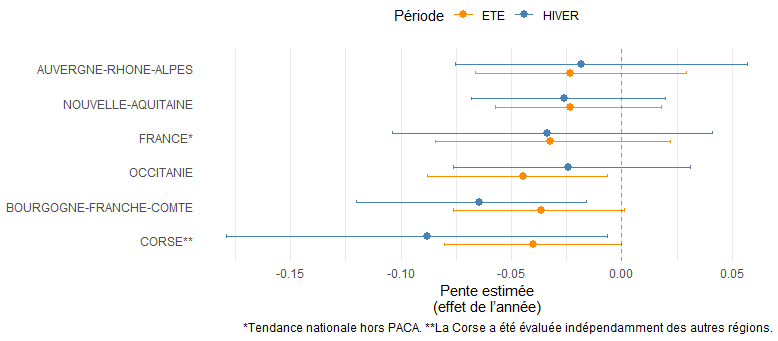
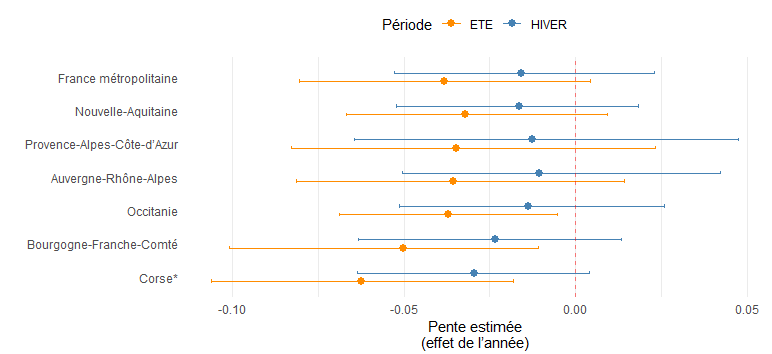
Update minsch_trends project

diff --git a/pages/minsch_trends.html b/pages/minsch_trends.html
@@ -55,10 +55,10 @@
 						<h4>Liens</h4>
 						<p class="repo-icons">
 							<a href="">
-								<i class="fa-solid fa-book"></i> Rapport de l'étude (bientôt publié)
+								<i class="fa-solid fa-book"></i> <a href="https://www.observatoire-mammiferes.fr/static/docs/2025-1.3-SFEPM-Tendances_populationnelles_MINSCH.pdf">Rapport de l'étude</a>
 							</a><br>
 							<a href="">
-								<i class="fa-solid fa-file-lines"></i> Article scientifique issue de l'étude (bientôt publié)
+								<i class="fa-solid fa-book"></i> <a href="https://www.observatoire-mammiferes.fr/static/docs/2025-12_Note_technique-Miniopt%C3%A8re_de_Schreibers.pdf">Addenum : Note technique</a>
 							</a>
 						</p>
 					</div>
@@ -76,7 +76,7 @@
 					</a>
 					<h1 class="page-title">Analyse hiérarchique des tendances populationnelles d'une espèce de chauve-souris en France (1995-2024)</h1>
 				</header>
-				<p>Le Minioptère de Screibers (<i>Miniopterus schreibersii</i>), chauve-souris cavernicole protégée et classée « Vulnérable » sur la liste rouge nationale de l’UICN, est suivi depuis près de 30 ans par un réseau coordonné par la Société Française d’Étude et de Protection des Mammifères (SFEPM). L’espèce est recensée en période estivale dans les colonies de reproduction et en hiver dans les gîtes d’hibernation, sur plus de 400 sites répartis dans cinq grandes régions de France. L’étude vise à :</p>
+				<p>Le Minioptère de Schreibers (<i>Miniopterus schreibersii</i>), chauve-souris cavernicole protégée et classée « Vulnérable » sur la liste rouge nationale de l’UICN, est suivi depuis près de 30 ans par un réseau coordonné par la Société Française pour l’Étude et la Protection des Mammifères (SFEPM). L’espèce est recensée en période estivale dans les colonies de reproduction et en hiver dans les gîtes d’hibernation, sur plus de 400 sites répartis dans cinq grandes régions de France. L’étude vise à :</p>
                     <ul>
                         <li>Quantifier la tendance temporelle des effectifs adultes entre 1995 et 2024 ;</li>
                         <li>Identifier les différences régionales et saisonnières ;</li>
@@ -84,20 +84,167 @@
                     </ul>
 				
                 <h3>Méthodologie itérative</h3>
+				<p>Le jeu de données final repose sur 62 sites estivaux et 60 sites hivernaux sélectionnés selon des critères de régularité et d'abondance (minimum 5 années de suivi dont 3 consécutives).</p>
+				<p><b>L'analyse intègre désormais les données complémentaires de la région Provence-Alpes-Côte d'Azur (cf. Note technique) qui n'avaient pas pu être utilisées lors de l'étude (cf. Rapport de l'étude)</b>.</p>
                 <p>Un pipeline de nettoyage et filtrage a permis d’harmoniser les données issues de multiples structures locales : standardisation des formats, catégorisation des variables, élimination des doublons, gestion des valeurs manquantes et application de seuils minimaux d’effectif, de fréquence de suivi et de fiabilité. Une analyse de sensibilité a permis de mettre en évidence les meilleurs paramètres de filtrage, inspiré par d'autres travaux. L’analyse repose sur trois approches complémentaires :</p>
                 <p>Usage d'un <b>modèle TRIM</b> (régression log-linéaire de Poisson) pour réaliser une première estimation de référence grâce à sa gestion des données manquantes par imputation et sa correction de la surdispersion.</p>
                 <p>Construction de modèles <b>linéaires généralisés mixtes</b> (GLMM) pour prendre en compte la structure hiérarchique des données (sites, régions, années, etc.) et exploiter des contrastes régionaux via des interactions.</p>
-                <p>Enfin, réaliser des estimations probabilistes à l'aide de <b>modèles bayésiens hiérarchiques</b> (négative binomiale) pour obtenir des pentes spécifiques par site et par région. Cette démarche permet alors d'intégrer explicitement les incertitiudes et les effets croisés.</p>
+                <p>Enfin, réaliser des estimations probabilistes à l'aide de <b>modèles bayésiens hiérarchiques</b> (négative binomiale) pour obtenir des pentes spécifiques par site et par région. Cette démarche permet alors d'intégrer explicitement les incertitudes et les effets croisés.</p>
 			    <p>Les métriques clés calculées incluent la pente annuelle (β), la variation cumulée sur la période, la probabilité postérieure de déclin (P(β<0)), les intervalles de crédibilité (IC95 %) et la proportion de variance expliquée (R²).</p>
 
                 <h3>Résultats</h3>
-                <p>En été, la tendance nationale indique une probabilité de déclin élevée (P ≈ 92,6 %) avec des signaux robustes en Occitanie (–73,8 %, P = 98,9 %), Bourgogne-Franche-Comté (–66,3 %, P = 97,2 %) et Corse (–69,8 %, P = 97,6 %). En hiver, les résultats affichent des déclins locaux marqués : Bourgogne-Franche-Comté (–85,6 %, P = 99,6 %) et Corse (–92,8 %, P = 98 %).</p>
-                <p>Les analyses révèlent une forte hétérogénéité spatiale et saisonnière, confirmant que les colonies estivales, composées majoritairement de femelles reproductrices, sont particulièrement vulnérables. La variabilité interannuelle et les contrastes régionaux mettent en évidence l’intérêt des approches hiérarchiques pour distinguer signaux écologiques réels et fluctuations liées aux comptages annuels.</p>
-                <p>Afin de faciliter la communication des résultats auprès du grand public, des graphiques sont présentés sous forme de courbes tendancielles traçant l'abondance relative annuelle observée. Un ensemble de graphiques en haute définition ont été fournis pour chaque période et région.</p>
-                <center>
-					<img src="../pages/images/winter_trends_minsch.png" alt="witer trends" width="100%">
-                    <p class="caption">Représentation de la tendance nationale (hors PACA) du Minioptère de Schreibers sur la période hivernale de 1995-2024. Les points représentent les effectifs moyens annuels, normalisés sur l’ensemble de la période. Les courbes violettes correspondent aux différentes trajectoires linéaires simulées par le modèle bayésien hiérarchique ; elles reflètent l’incertitude autour de la direction générale de la tendance. La courbe bleue est un GLM simple fournissant une lecture descriptive indépendante du modèle, mettant en évidence les variations temporelles brutes.</p>
+				<p>Les résultats mettent en évidence une tendance nationale nette au déclin, plus marquée en période estivale qu’hivernale.</p>
+                <p>En <b>été</b>, la tendance nationale indique une probabilité de déclin quasi certaine (<span style="white-space: nowrap;">P(β < 0) = 0,966</span>) avec une baisse estimée à <span style="white-space: nowrap;">–68,2 %</span>, portée par des signaux robustes en Bourgogne-Franche-Comté (<span style="white-space: nowrap;">–77,9 %</span>, <span style="white-space: nowrap;">P = 0,993</span>), en Occitanie (<span style="white-space: nowrap;">–67,1 %</span>, <span style="white-space: nowrap;">P = 0,987</span>) et en Corse  (<span style="white-space: nowrap;">–84,6 %</span>, <span style="white-space: nowrap;">P = 0,995</span>).</p>
+
+				<style>
+				.bat-container { font-family: sans-serif; margin-bottom: 30px; }
+				.bat-table {
+					width: 100%;
+					border-collapse: collapse;
+					font-size: 0.9em;
+					margin-top: 10px;
+				}
+				.bat-table th, .bat-table td {
+					border: 1px solid #ddd;
+					padding: 10px;
+					text-align: center;
+				}
+				.bat-table th { background-color: #f8f9fa; color: #333; }
+				.bat-table .region { text-align: left; font-weight: 500; }
+				.bat-table .nowrap { white-space: nowrap; }
+				</style>
+
+				<div class="bat-container">
+				<table class="bat-table">
+					<thead>
+					<tr>
+						<th>Région</th>
+						<th>P(β < 0)</th>
+						<th>β (log)</th>
+						<th>Variation (30 ans)</th>
+						<th>IC95 % (Variation)</th>
+					</tr>
+					</thead>
+					<tbody>
+					<tr>
+						<td class="region">Auvergne-Rhône-Alpes</td>
+						<td>0,9360</td>
+						<td>-0,0356</td>
+						<td class="nowrap"><strong>-65,6 %</strong></td>
+						<td class="nowrap">[-91,3 % ; 53,9 %]</td>
+					</tr>
+					<tr>
+						<td class="region">Bourgogne-Franche-Comté</td>
+						<td>0,9935</td>
+						<td>-0,0503</td>
+						<td class="nowrap"><strong>-77,9 %</strong></td>
+						<td class="nowrap">[-95,2 % ; -27,5 %]</td>
+					</tr>
+					<tr>
+						<td class="region">Corse</td>
+						<td>0,9953</td>
+						<td>-0,0624</td>
+						<td class="nowrap"><strong>-84,6 %</strong></td>
+						<td class="nowrap">[-95,9 % ; -41,9 %]</td>
+					</tr>
+					<tr>
+						<td class="region">Nouvelle-Aquitaine</td>
+						<td>0,9475</td>
+						<td>-0,0321</td>
+						<td class="nowrap"><strong>-61,9 %</strong></td>
+						<td class="nowrap">[-86,6 % ; 31,6 %]</td>
+					</tr>
+					<tr>
+						<td class="region">Occitanie</td>
+						<td>0,9878</td>
+						<td>-0,0370</td>
+						<td class="nowrap"><strong>-67,1 %</strong></td>
+						<td class="nowrap">[-87,3 % ; -14,5 %]</td>
+					</tr>
+					<tr>
+						<td class="region">Provence-Alpes-Côte d'Azur</td>
+						<td>0,9205</td>
+						<td>-0,0347</td>
+						<td class="nowrap"><strong>-64,7 %</strong></td>
+						<td class="nowrap">[-91,7 % ; 101,4 %]</td>
+					</tr>
+					</tbody>
+				</table>
+				</div>
+
+				<center>
+					<img src="../pages/images/EteNational_minsch.png" alt="summer trends" width="100%">
+                    <p class="caption">Représentation de la tendance nationale du Minioptère de Schreibers sur la période estivale de 1995-2024. Les points représentent les effectifs moyens annuels, normalisés sur l’ensemble de la période. Les courbes violettes correspondent aux différentes trajectoires linéaires simulées par le modèle bayésien hiérarchique ; elles reflètent l’incertitude autour de la direction générale de la tendance. La courbe principale est un GLM simple fournissant une lecture descriptive indépendante du modèle, mettant en évidence les variations temporelles brutes.</p>
 				</center>
+
+				<p>En <b>hiver</b>, bien que l'incertitude soit plus marquée, le déclin reste majoritaire à l'échelle nationale (<span style="white-space: nowrap;">–37,6 %</span>, <span style="white-space: nowrap;">P = 0,83</span>) et se confirme localement, notamment en Corse (<span style="white-space: nowrap;">–58,7 %</span>, <span style="white-space: nowrap;">P = 0,957</span>) et en Bourgogne-Franche-Comté (<span style="white-space: nowrap;">–50,5 %</span>, <span style="white-space: nowrap;">P = 0,899</span>).</p>
+
+				<div class="bat-container">
+				<table class="bat-table">
+					<thead>
+					<tr>
+						<th>Région</th>
+						<th>P(β < 0)</th>
+						<th>β (log)</th>
+						<th>Variation (30 ans)</th>
+						<th>IC95 % (Variation)</th>
+					</tr>
+					</thead>
+					<tbody>
+					<tr>
+						<td class="region">Auvergne-Rhône-Alpes</td>
+						<td>0,7294</td>
+						<td>-0,0105</td>
+						<td class="nowrap"><strong>-27,1 %</strong></td>
+						<td class="nowrap">[-78,1 % ; 256,2 %]</td>
+					</tr>
+					<tr>
+						<td class="region">Bourgogne-Franche-Comté</td>
+						<td>0,8991</td>
+						<td>-0,0234</td>
+						<td class="nowrap"><strong>-50,5 %</strong></td>
+						<td class="nowrap">[-85,1 % ; 48,8 %]</td>
+					</tr>
+					<tr>
+						<td class="region">Corse</td>
+						<td>0,9573</td>
+						<td>-0,0295</td>
+						<td class="nowrap"><strong>-58,7 %</strong></td>
+						<td class="nowrap">[-85,2 % ; 13,0 %]</td>
+					</tr>
+					<tr>
+						<td class="region">Nouvelle-Aquitaine</td>
+						<td>0,8350</td>
+						<td>-0,0164</td>
+						<td class="nowrap"><strong>-38,8 %</strong></td>
+						<td class="nowrap">[-79,2 % ; 73,9 %]</td>
+					</tr>
+					<tr>
+						<td class="region">Occitanie</td>
+						<td>0,7793</td>
+						<td>-0,0139</td>
+						<td class="nowrap"><strong>-34,0 %</strong></td>
+						<td class="nowrap">[-78,6 % ; 118,3 %]</td>
+					</tr>
+					<tr>
+						<td class="region">Provence-Alpes-Côte d'Azur</td>
+						<td>0,7441</td>
+						<td>-0,0125</td>
+						<td class="nowrap"><strong>-31,2 %</strong></td>
+						<td class="nowrap">[-85,6 % ; 315,5 %]</td>
+					</tr>
+					</tbody>
+				</table>
+				</div>
+
+				<center>
+					<img src="../pages/images/HiverNational_minsch.png" alt="winter trends" width="100%">
+                    <p class="caption">Représentation de la tendance nationale du Minioptère de Schreibers sur la période hivernale de 1995-2024. Les points représentent les effectifs moyens annuels, normalisés sur l’ensemble de la période. Les courbes violettes correspondent aux différentes trajectoires linéaires simulées par le modèle bayésien hiérarchique ; elles reflètent l’incertitude autour de la direction générale de la tendance. La courbe principale est un GLM simple fournissant une lecture descriptive indépendante du modèle, mettant en évidence les variations temporelles brutes.</p>
+				</center>
+
+				<p>Les analyses révèlent une forte hétérogénéité spatiale et saisonnière, confirmant que les colonies estivales, composées majoritairement de femelles reproductrices, sont particulièrement vulnérables. La variabilité interannuelle et les contrastes régionaux mettent en évidence l’intérêt des approches hiérarchiques pour distinguer signaux écologiques réels et fluctuations liées aux comptages annuels.</p>
+				<p>L'analyse souligne que si les effectifs bruts cumulés semblent augmenter, la modélisation des trajectoires individuelles des sites montre une dégradation réelle des populations. Cette hétérogénéité confirme la vulnérabilité des colonies, particulièrement en période de reproduction.</p>
+				<p>Une analyse focalisée sur les dix dernières années est envisagée pour évaluer plus finement l'impact des protocoles standardisés et de la coordination nationale sur les dynamiques récentes de l'espèce.</p>
 			</article>
 			<!-- /PageContent -->
 
